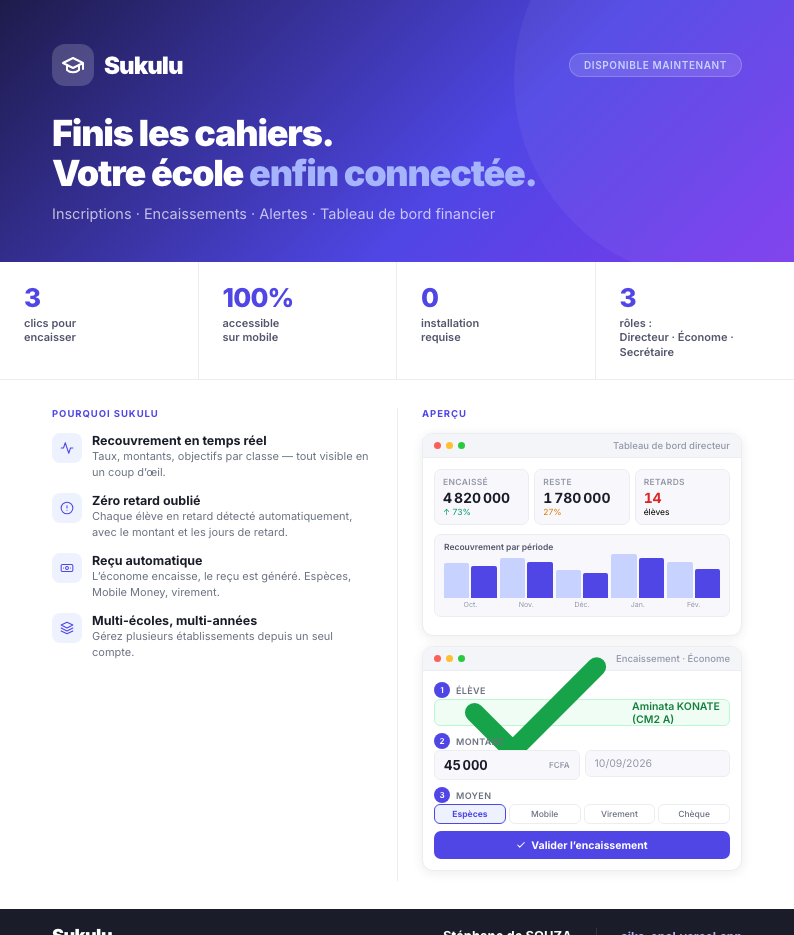
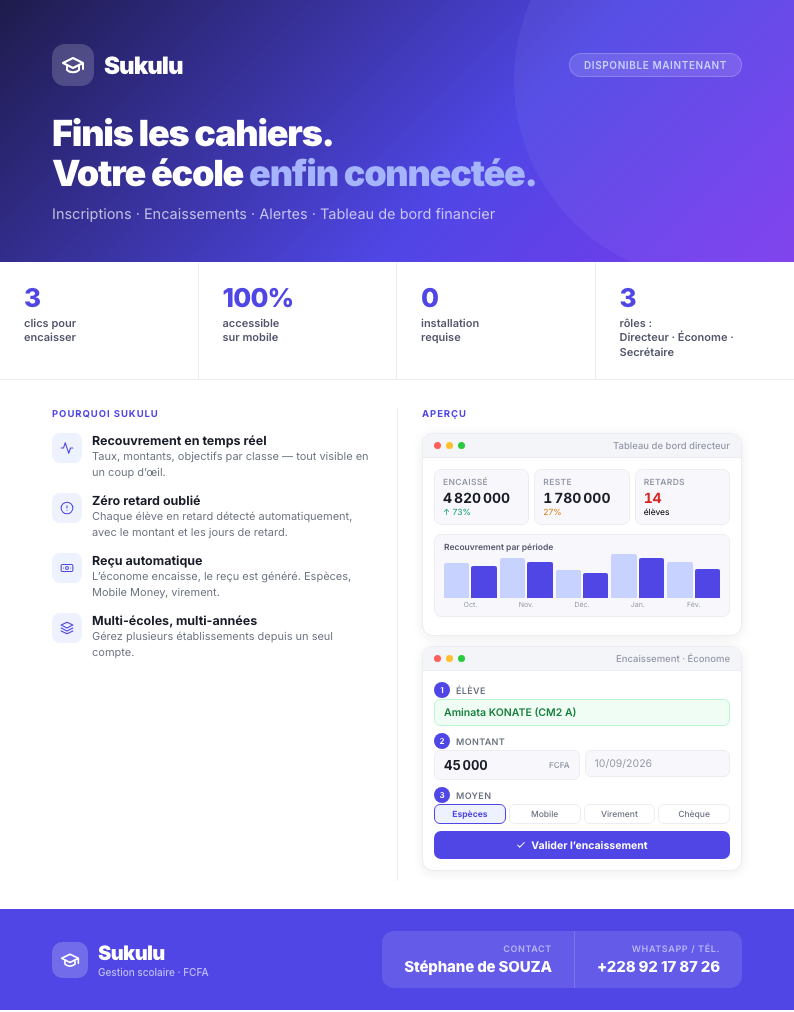
marketing: footer indigo visible + lien site retire + hauteur exacte 1012px

diff --git a/marketing/flyer.html b/marketing/flyer.html
@@ -135,18 +135,24 @@ html,body{width:794px;font-family:'Inter',sans-serif;-webkit-font-smoothing:anti
 
 /* ── FOOTER ── */
 .ft{
-  background:#1a1d29;
-  padding:16px 52px;
+  background:#4f46e5;
+  padding:22px 52px;
   display:flex;align-items:center;justify-content:space-between;
+  gap:20px;
 }
-.ft-name{font-size:18px;font-weight:900;color:#fff;letter-spacing:-.03em;}
-.ft-tag{font-size:9.5px;color:rgba(255,255,255,.4);margin-top:2px;}
-.ft-right{display:flex;gap:24px;align-items:center;}
-.ft-sep{width:1px;height:28px;background:rgba(255,255,255,.1);}
+.ft-brand{display:flex;align-items:center;gap:10px;}
+.ft-logo{width:36px;height:36px;border-radius:10px;background:rgba(255,255,255,.2);display:flex;align-items:center;justify-content:center;}
+.ft-logo svg{width:20px;height:20px;}
+.ft-name{font-size:20px;font-weight:900;color:#fff;letter-spacing:-.03em;}
+.ft-tag{font-size:10px;color:rgba(255,255,255,.65);margin-top:1px;font-weight:500;}
+.ft-right{display:flex;gap:0;align-items:stretch;background:rgba(255,255,255,.12);border-radius:12px;overflow:hidden;}
+.ft-block{display:flex;flex-direction:column;justify-content:center;padding:12px 22px;gap:3px;}
+.ft-block+.ft-block{border-left:1px solid rgba(255,255,255,.15);}
+.ft-lbl{font-size:9px;font-weight:600;color:rgba(255,255,255,.55);text-transform:uppercase;letter-spacing:.07em;}
+.ft-val{font-size:15px;font-weight:800;color:#fff;letter-spacing:-.01em;}
+.ft-url{font-size:13px;font-weight:700;color:#c7d2fe;}
 .ft-block{display:flex;flex-direction:column;align-items:flex-end;}
-.ft-val{font-size:13px;font-weight:700;color:#fff;}
-.ft-sub{font-size:9.5px;color:rgba(255,255,255,.45);margin-top:1px;}
-.ft-url{font-size:12px;font-weight:700;color:#a5b4fc;}
+
 </style>
 </head>
 <body>
@@ -236,7 +242,7 @@ html,body{width:794px;font-family:'Inter',sans-serif;-webkit-font-smoothing:anti
       <div class="mk-body">
         <div class="fm">
           <div><div class="srow"><div class="sn">1</div><div class="sl">Élève</div></div>
-            <div class="fi ok"><svg viewBox="0 0 24 24" fill="none" stroke="#16a34a" stroke-width="2.5" stroke-linecap="round" stroke-linejoin="round"><path d="M20 6L9 17l-5-5"/></svg>Aminata KONATE (CM2 A)</div>
+            <div class="fi ok">Aminata KONATE (CM2 A)</div>
           </div>
           <div><div class="srow"><div class="sn">2</div><div class="sl">Montant</div></div>
             <div class="fr"><div class="fa">45 000 <span>FCFA</span></div><div class="fi">10/09/2026</div></div>
@@ -254,11 +260,27 @@ html,body{width:794px;font-family:'Inter',sans-serif;-webkit-font-smoothing:anti
 
 <!-- FOOTER -->
 <div class="ft">
-  <div><div class="ft-name">Sukulu</div><div class="ft-tag">Gestion scolaire &middot; FCFA</div></div>
+  <div class="ft-brand">
+    <div class="ft-logo">
+      <svg viewBox="0 0 24 24" fill="none" stroke="#fff" stroke-width="2" stroke-linecap="round" stroke-linejoin="round">
+        <path d="M22 10v6M2 10l10-5 10 5-10 5z"/>
+        <path d="M6 12v5c3 3 9 3 12 0v-5"/>
+      </svg>
+    </div>
+    <div>
+      <div class="ft-name">Sukulu</div>
+      <div class="ft-tag">Gestion scolaire · FCFA</div>
+    </div>
+  </div>
   <div class="ft-right">
-    <div class="ft-block"><div class="ft-val">Stéphane de SOUZA</div><div class="ft-sub">+228 92 17 87 26</div></div>
-    <div class="ft-sep"></div>
-    <div class="ft-block"><div class="ft-url">sika-opal.vercel.app</div><div class="ft-sub">Accès sur invitation</div></div>
+    <div class="ft-block">
+      <div class="ft-lbl">Contact</div>
+      <div class="ft-val">Stéphane de SOUZA</div>
+    </div>
+    <div class="ft-block">
+      <div class="ft-lbl">WhatsApp / Tél.</div>
+      <div class="ft-val">+228 92 17 87 26</div>
+    </div>
   </div>
 </div>
 
